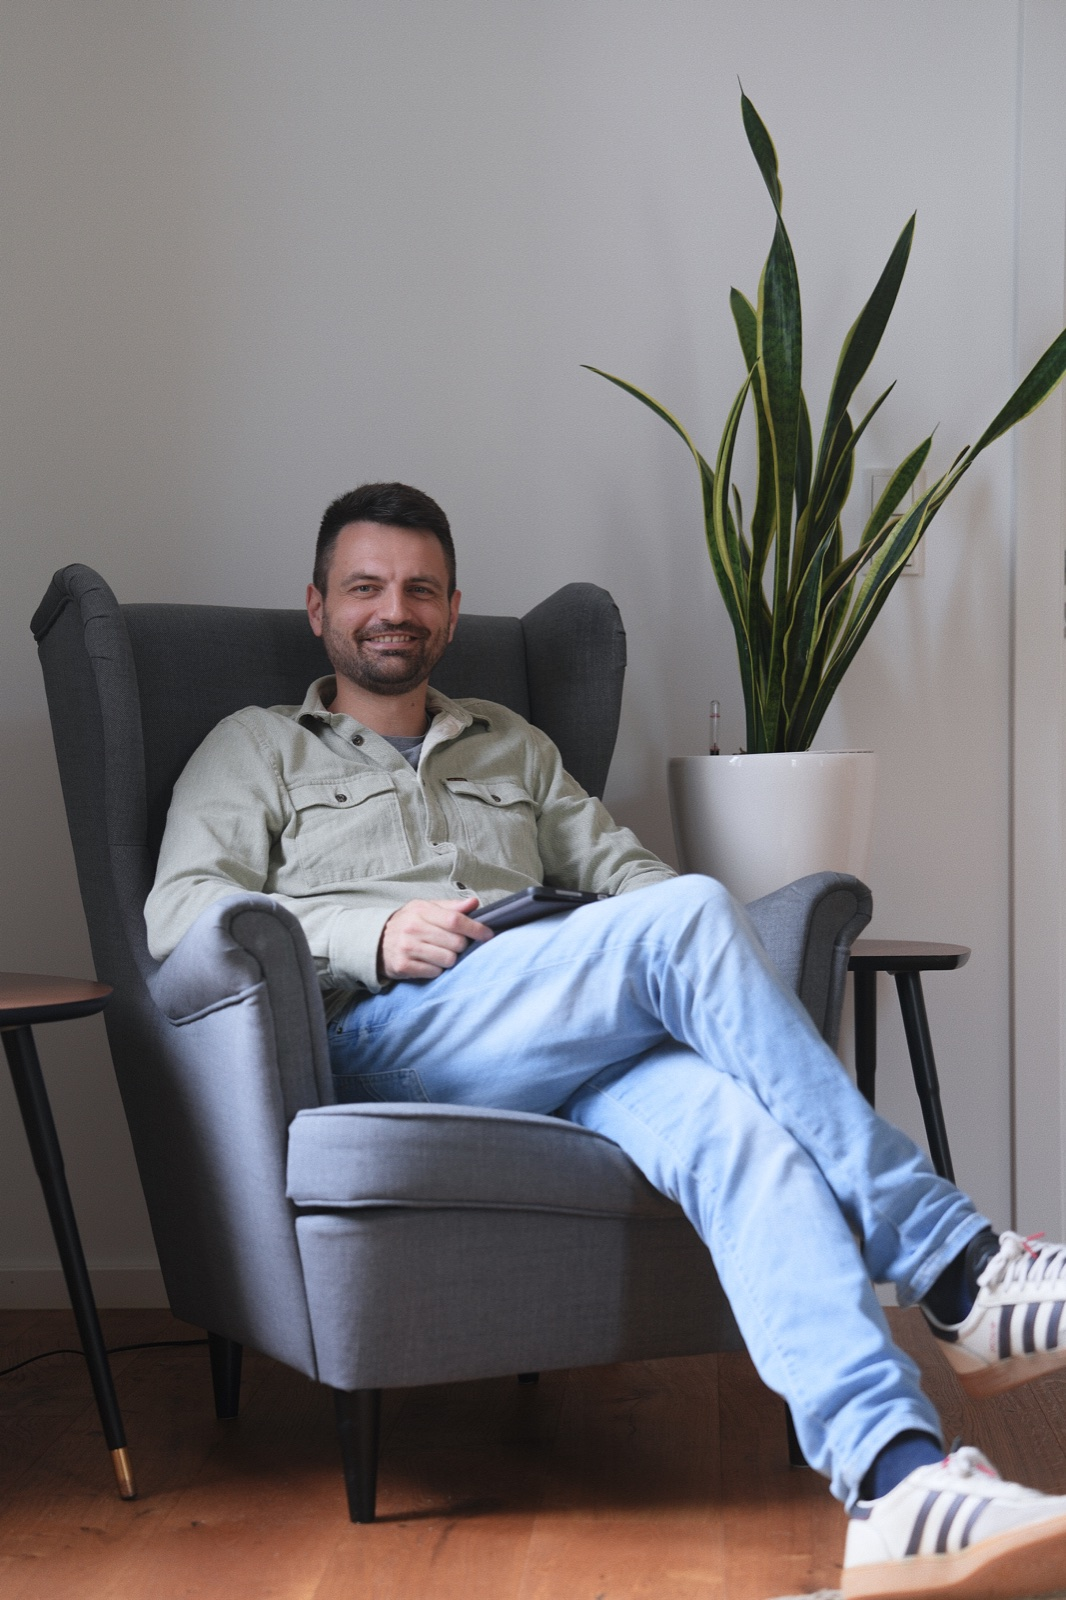
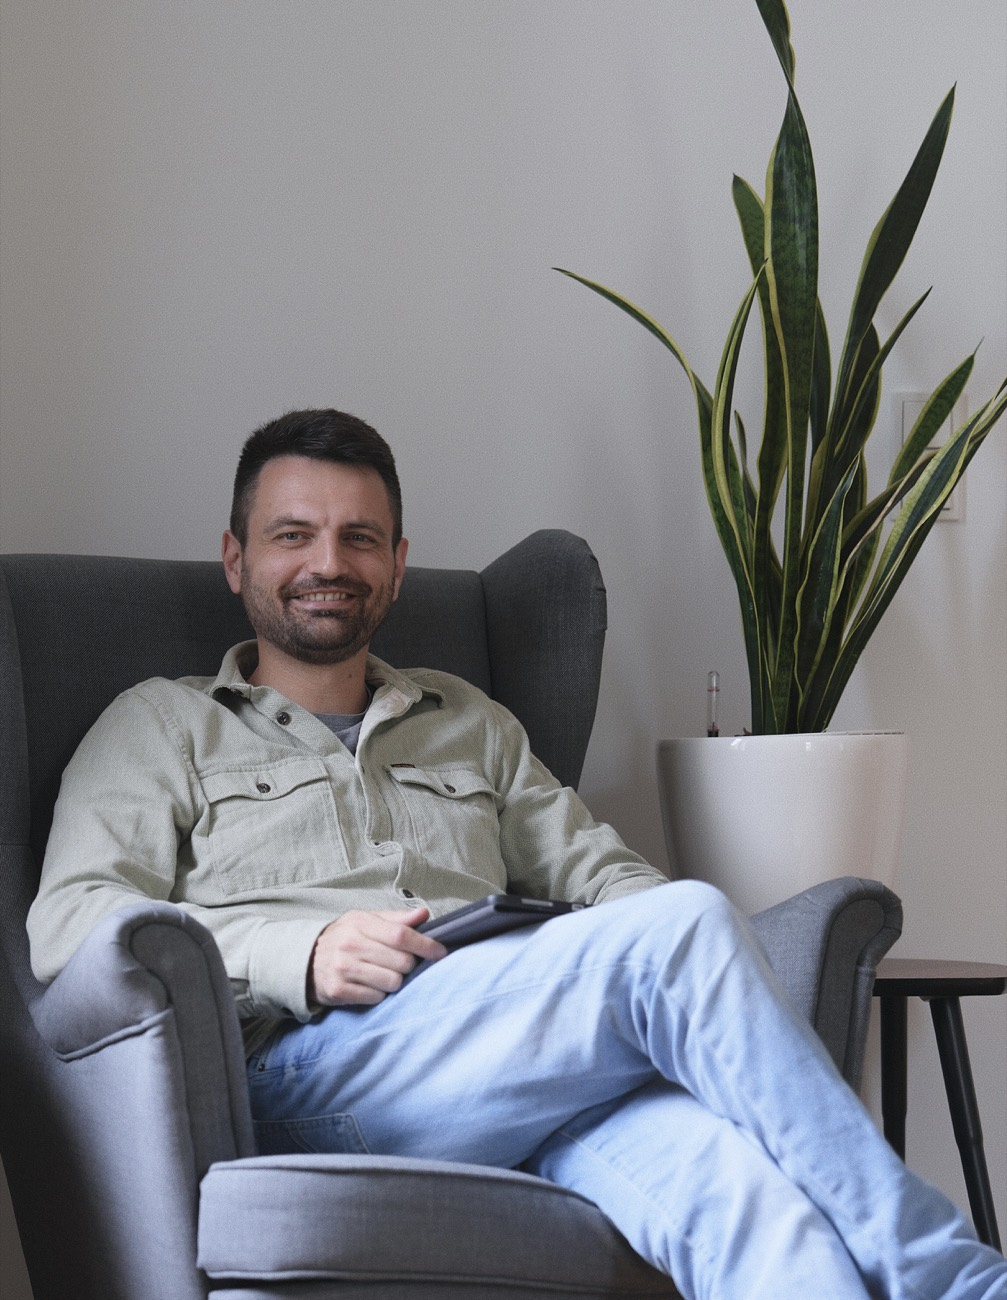
Update profile portrait

diff --git a/index.html b/index.html
@@ -50,7 +50,7 @@
             <p class="lead">Psychologischer Psychotherapeut mit Schwerpunkt Verhaltenstherapie.</p>
           </div>
           <div class="portrait-wrap reveal">
-            <img src="assets/portrait.jpg?v=2" alt="Portrait von Sebastian Konrad" loading="lazy">
+            <img src="assets/portrait.jpg?v=3" alt="Portrait von Sebastian Konrad" loading="lazy">
           </div>
         </div>
 